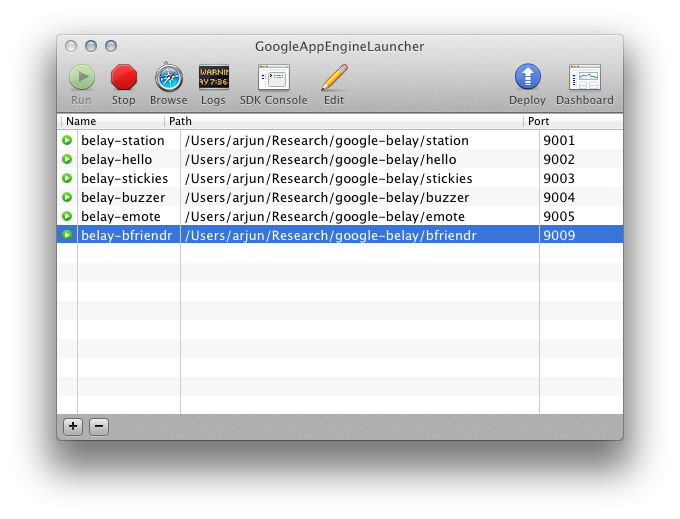
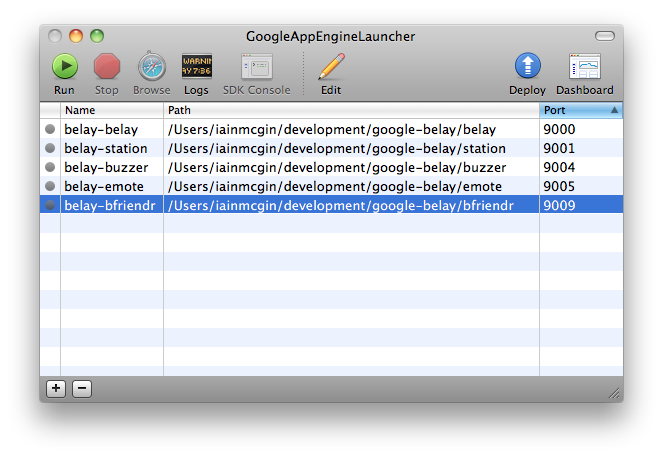
updating README.html to reflect changes to demos and station

diff --git a/README.html b/README.html
@@ -1,78 +1,128 @@
 <html>
 <head>
-<link rel="stylesheet" href="lib/css/go.css"></link>
+<title>Google Belay - Readme</title>
+<link rel="stylesheet" href="lib/css/opensans.css">
+<link rel="stylesheet" href="http://www.google.com/css/maia.css"></link>
 </head>
 
 <body>
+<div class="maia-header" id="maia-header">
+  <div class="maia-aux">
+  <h1>
+    <a href="/"><img alt="Google" src=
+    "https://www.google.com/images/logos/google_logo_41.png"> Belay</a>
+  </h1>
+  <h2>
+    Getting Started
+  </h2>
+  </div>
+</div>
+<div id="maia-main">
   <h1>Installing Belay</h1>
 
   <ol>
 
-  <li> <p> The Belay demo has a number of  Google AppEngine web servers that
+  <li>The Belay demo launches a number of Python Google AppEngine web servers that
   drive Belay Station and the applications in the demo.  If you don't have Google
   AppEngine for Python, get it at the <a
   href="http://code.google.com/appengine/downloads.html">downloads page</a>.
-  </p>
+  </li>
+  <li>Additionally, Belay can also be used with the Java variant of Google
+  AppEngine. If you wish to use this, get it at the <a
+  href="http://code.google.com/appengine/downloads.html">downloads page</a>.
+  Once installed, set the environment variable <code>GAE_JAVA_HOME</code> to
+  the install directory, e.g. 
+  <code>export GAE_JAVA_HOME=~/development/tools/appengine-java-sdk-1.6.1</code>
   </li>
 
   <li> Once you have AppEngine, your startup will vary depending on
 your platform.  If you are on a Mac, you can load the applications
 into the AppEngine launcher to start them. (Your launcher should
-look like <a href="art/appengine-config.png">like this</a>.) There are four
-directories you should load: station/,
-buzzer/, emote/, and bfriendr/.
+look like <a href="art/appengine-config.png">like this</a>.) There are five
+directories you should load: <code>belay/</code>, <code>station/</code>,
+<code>buzzer/</code>, <code>emote/</code>, and <code>bfriendr/</code>.
 
-If you are on a Linux machine, there is a script, <code>run.sh</code>, in the main
-directory of the repository, that takes the path to your AppEngine installation's
-<code>dev_appserver.py</code> script and starts each application in its own terminal.
-For example, I have AppEngine installed in <code>/home/joe/src/google_appengine</code>,
-so I run:
-
+<p>
+If you are on a Linux/Mac machine, the script <code>run.sh</code> in 
+the main directory of the repository can be used to start the demos. 
+Running this script without any parameters outlines how to use the script. 
+If the dev_appserver.py script provided by the Python variant of Google App E
+ngine is on your path, then simply executing <code>run.sh restart</code> will 
+start all the necessary infrastructure for belay development along with the 
+demo applications:
+</p>
 
 <pre>
-bob@bob-laptop:~/src/belay$ ./run.sh /home/bob/src/google_appengine/dev_appserver.py
-Started belay, pid in /tmp/belay/pids/belay/pid, log in /tmp/belay/logs/belay
-Started station, pid in /tmp/belay/pids/station/pid, log in /tmp/belay/logs/station
-Started buzzer, pid in /tmp/belay/pids/buzzer/pid, log in /tmp/belay/logs/buzzer
-Started emote, pid in /tmp/belay/pids/emote/pid, log in /tmp/belay/logs/emote
-Started bfriendr, pid in /tmp/belay/pids/bfriendr/pid, log in /tmp/belay/logs/bfriendr
+google-belay$ ./run.sh restart
+Stopping belay...
+Stopping station...
+Stopping buzzer...
+Stopping emote...
+Stopping chat...
+Stopping bfriendr...
+Started belay, pid in /tmp/belay/pids/belay/pid, log in /tmp/belay/logs/belay, site at http://localhost:9000
+Started station, pid in /tmp/belay/pids/station/pid, log in /tmp/belay/logs/station, site at http://localhost:9001
+Started buzzer, pid in /tmp/belay/pids/buzzer/pid, log in /tmp/belay/logs/buzzer, site at http://localhost:9004
+Started emote, pid in /tmp/belay/pids/emote/pid, log in /tmp/belay/logs/emote, site at http://localhost:9005
+Started chat, pid in /tmp/belay/pids/chat/pid, log in /tmp/belay/logs/chat, site at http://localhost:9006
+Started bfriendr, pid in /tmp/belay/pids/bfriendr/pid, log in /tmp/belay/logs/bfriendr, site at http://localhost:9009
 </pre>
 
 <p>
-To get more information on using the startup script and restarting, just run
-<code>./run.sh</code> (with no arguments).
-
+Alternatively, the path to <code>dev_appserver.py</code> can be passed as the
+first argument to <code>run.sh</code>. To get more information on using the 
+startup script and restarting, just run <code>./run.sh</code> (with no 
+arguments).
 </p>
+
+<p>On Windows machines, we recommend using <a href="http://www.cygwin.com/">Cygwin</a> to
+allow the use of the same script.</p>
 </li>
 </ol>
 
-<h1>Exploring The Belay Demo</h1>
+<h1>Exploring The Belay Demos</h1>
 
-<p>Visit <a href="https://belay-belay.appspot.com" target="_blank">https://belay-belay.appspot.com</a>
-(or <a href="http://localhost:9000" target="_blank">http://localhost:9000</a>
+<p>Visit <a href="https://belay-station.appspot.com" target="_blank">https://belay-station.appspot.com</a>
+(or <a href="http://localhost:9001" target="_blank">http://localhost:9001</a>
 when running a development instance) to enter Belay Station. 
 The primary purpose of Belay Station is
-to hold references to the user's items. When you first launch Belay,
-this item list is empty. Belay Station also contains links to create
-certain well-known items. For example, click on the "Buzzer" and
-"Emote" buttons to create instances of each. You can create as many as
-you wish; they are all independent.</p>
+to hold references to the user's application instances. Stations can be created
+for a user either by logging in using an OpenID identity from Yahoo or AOL, or
+their Google+ identity. When you first launch 
+Belay, this item list is empty.</p>
+<p>It is currently a requirement that the user's station be open at all times
+while they are interacting with other Belay enabled applications. This
+constraint will be addressed in future versions of Belay.</p>
 
-<p>Emote is an emoticon-posting application that requires a capability
-to post to a Buzzer. You can drag the
-<img src="art/buzzer-post-chit.png"/> icon from a Buzzer onto an Emote
-to give it the capability to post to that Buzzer.  Posting continues
-to work even if you pop out Emote and Buzzer instances into their own
-windows.</p>
+<h2>Buzzer</h2>
 
-<p>Bfriendr is an instant-messaging application that support sendings
-capabilities as messages. Unlike the other applications in the demo,
-bfriendr is launched by
-visiting <a href="http://belay-bfriendr.appspot.com" target="_blank">https://belay-bfriendr.appspot.com</a> 
-(or <a href="http://localhost:9009" target="_blank">http://localhost:9009</a> when running
-a development instance).
-Enter a name, etc. and click "get going"; notice that Belay Station
-has a reference to this bfriendr account.  If you
+<p>Buzzer is a simple micro-blog web application, which demonstrates the
+ability to grant third parties with the ability to view the blog and to post
+to the blog on the user's behalf (but only while the user has their buzzer
+instance open). The live version can be found at 
+<a href="https://belay-buzzer.appspot.com" target="_blank">https://belay-buzzer.appspot.com</a>
+and the development version can be found at <a href="http://localhost:9004">http://localhost:9004</a>.
+</p>
+
+<h2>Emote</h2>
+
+<p>Emote is an emoticon-posting application that utilizes a capability
+granted from a Buzzer instance. You can drag-and-drop the
+<img src="art/buzzer-post-chit.png"/> icon from a Buzzer instance onto an Emote
+instance to give it the capability to post to that Buzzer. The live version
+can be found at
+<a href="//https://belay-emote.appspot.com" target="_blank">https://belay-emote.appspot.com</a>
+and the development version can be found at <a href="http://localhost:9005">http://localhost:9005</a>.
+</p>
+
+<h2>Bfriendr</h2>
+
+<p>Bfriendr is an instant-messaging application that support sending
+capabilities as messages. The live version can be found at
+<a href="http://belay-bfriendr.appspot.com" target="_blank">https://belay-bfriendr.appspot.com</a> 
+and the development version can be found at <a href="http://localhost:9009" target="_blank">http://localhost:9009</a>.
+
+Enter a name, etc. and click "get going".  If you
 visit <a href="http://belay-bfriendr.appspot.com" target="_blank">bfriendr</a> 
 (<a href="http://localhost:9009" target="_blank">local development</a>)
 again, you can re-launch your account, or create a new, independent
@@ -83,7 +133,25 @@ onto the invite pane of another bfriendr to introduce them to each
 other. These bfriendr's can send messages to each other that include
 capabilities.</p>
 
+<h1>Building the Java infrastructure and demos</h1>
+<p>In order to build the Java source code and demo applications, in addition
+to the Java AppEngine SDK you will require Maven 3.x, which can be downloaded
+<a href="http://maven.apache.org/download.html">here</a>. On a Linux/Mac, one
+can then just run <code>make java</code> from the root folder, or run
+<code>mvn install</code> from within the Java folder. Additionally, Eclipse
+can be used to build the code with the help of the 
+<a href="http://eclipse.org/m2e/">m2eclipse plugin</a>.
 
+</div>
+<div id="maia-signature"></div>
+<div class="maia-footer" id="maia-footer">
+<div id="maia-footer-global">
+  <div class="maia-aux">
+    <ul>
+      <li>© <a href="https://www.google.com/">Google</a></li>
+    </ul>
+  </div>
+</div>
 </body>
 </html>
 
